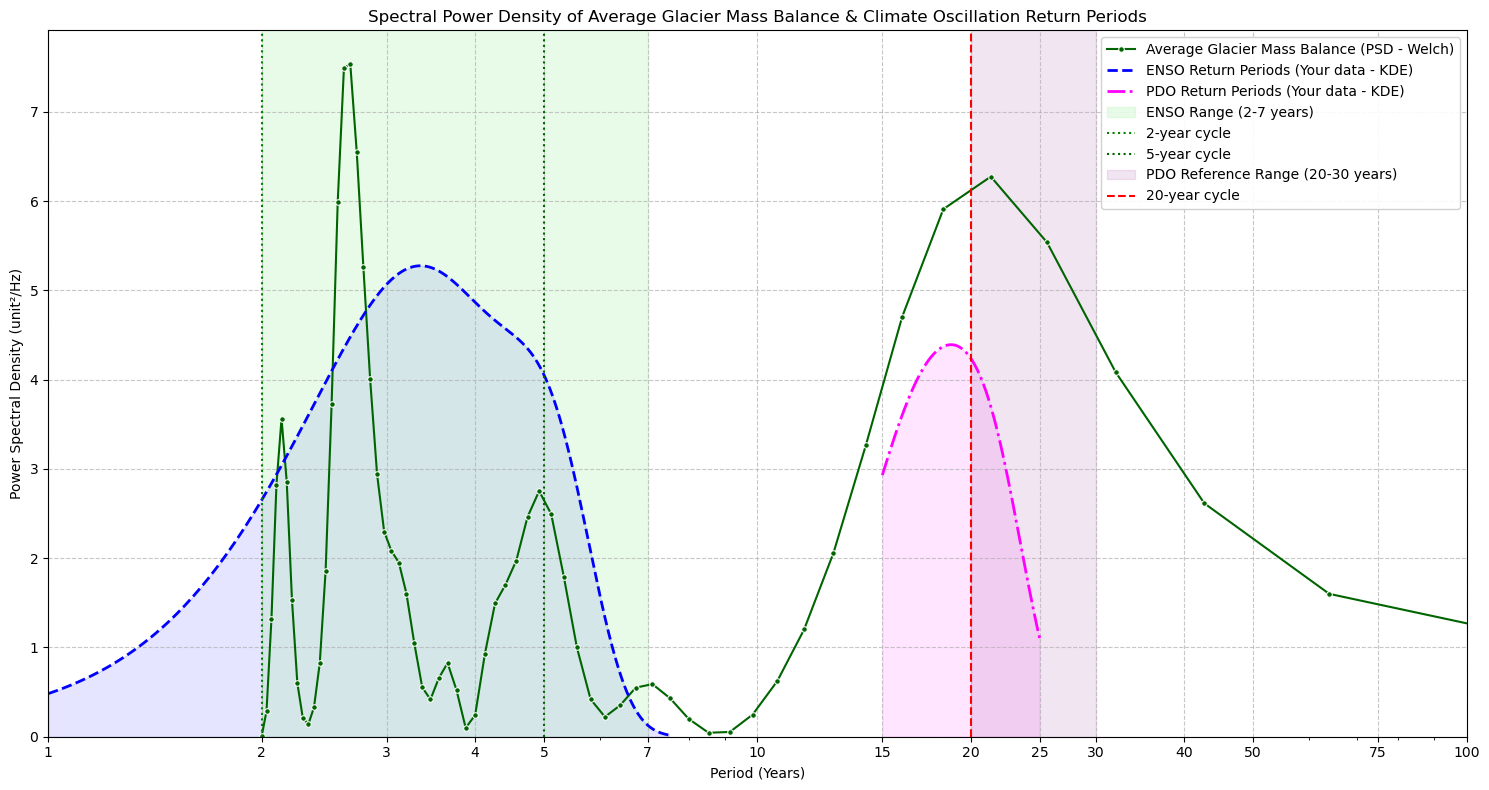
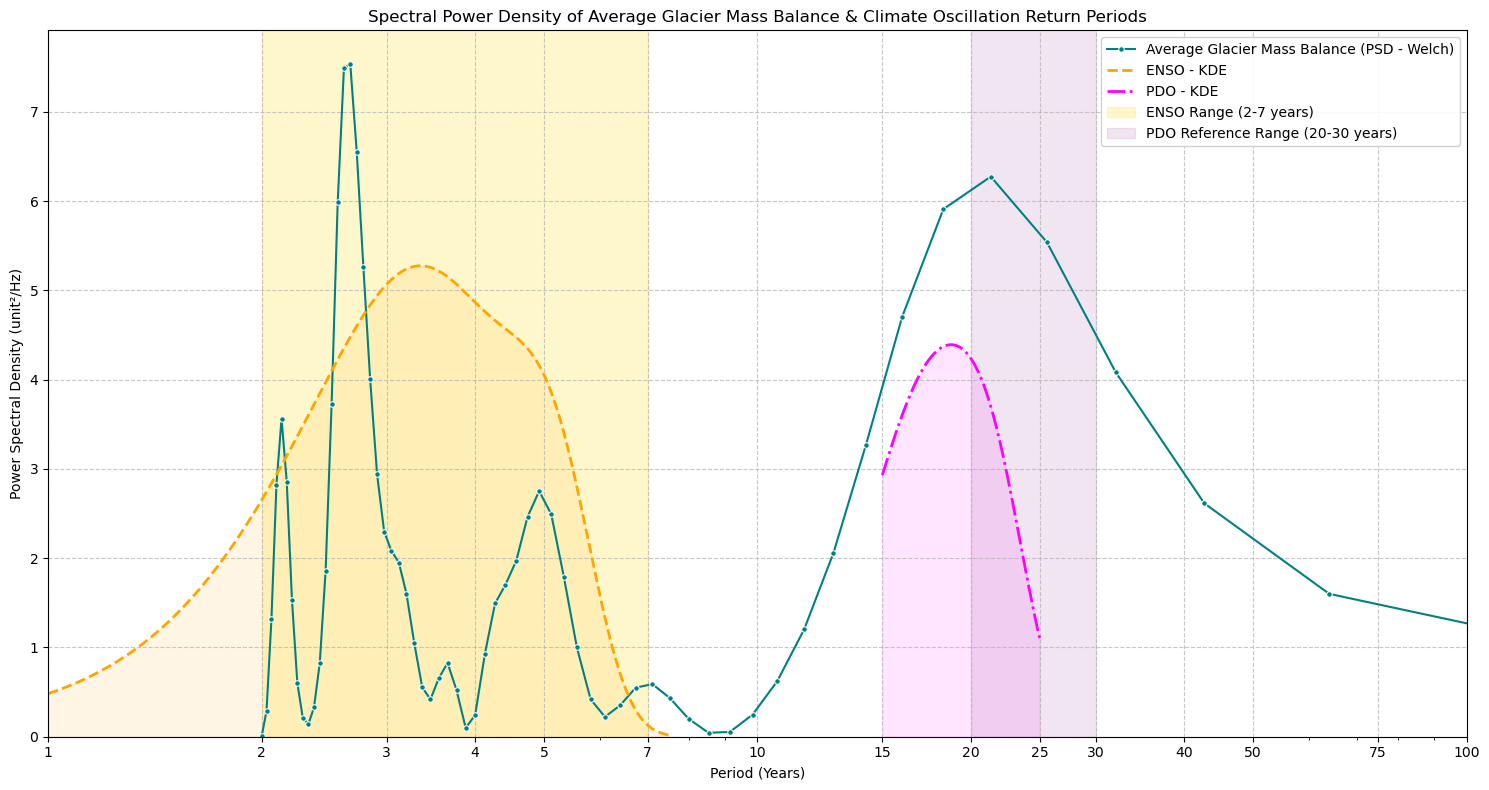
Update to README and plot function

diff --git a/functions.py b/functions.py
@@ -152,7 +152,7 @@ def _plot_psd_base(ax, psd_periods, psd_values, title_prefix=""):
         psd_values (np.array): PSD values.
         title_prefix (str): Prefix for the plot title (e.g., "Average Glacier").
     """
-    sns.lineplot(x=psd_periods, y=psd_values, marker='o', markersize=4, color='darkgreen',
+    sns.lineplot(x=psd_periods, y=psd_values, marker='o', markersize=4, color='teal',
                  label=f'{title_prefix} Mass Balance (PSD - Welch)', ax=ax)
 
     ax.set_title(f'Spectral Power Density of {title_prefix} Mass Balance')
@@ -192,9 +192,9 @@ def _add_climate_overlays(ax, psd_values, psd_periods):
     kde_enso_scaling_factor = _calculate_kde_scaling(psd_values, psd_periods, 2, 7, kde_enso_y_density)
     kde_enso_y_density_scaled = kde_enso_y_density * kde_enso_scaling_factor
 
-    sns.lineplot(x=kde_enso_x_values_periods, y=kde_enso_y_density_scaled, color='blue', linestyle='--', linewidth=2,
-                 label='ENSO Return Periods (Your data - KDE)', ax=ax)
-    ax.fill_between(kde_enso_x_values_periods, kde_enso_y_density_scaled, color='blue', alpha=0.1)
+    sns.lineplot(x=kde_enso_x_values_periods, y=kde_enso_y_density_scaled, color='orange', linestyle='--', linewidth=2,
+                 label='ENSO - KDE', ax=ax)
+    ax.fill_between(kde_enso_x_values_periods, kde_enso_y_density_scaled, color='orange', alpha=0.1)
 
     # --- KDE for PDO return periods ---
     kde_pdo = stats.gaussian_kde(pdo_return_periods_user)
@@ -204,18 +204,18 @@ def _add_climate_overlays(ax, psd_values, psd_periods):
     kde_pdo_y_density_scaled = kde_pdo_y_density * kde_pdo_scaling_factor
 
     sns.lineplot(x=kde_pdo_x_values_periods, y=kde_pdo_y_density_scaled, color='magenta', linestyle='-.', linewidth=2,
-                 label='PDO Return Periods (Your data - KDE)', ax=ax)
+                 label='PDO - KDE', ax=ax)
     ax.fill_between(kde_pdo_x_values_periods, kde_pdo_y_density_scaled, color='magenta', alpha=0.1)
 
     # Add reference ranges
-    ax.axvspan(2.0, 7.0, color='lightgreen', alpha=0.2, label='ENSO Range (2-7 years)')
-    ax.axvline(x=2.0, color='green', linestyle=':', label='2-year cycle')
-    ax.axvline(x=5.0, color='darkgreen', linestyle=':', label='5-year cycle')
+    ax.axvspan(2.0, 7.0, color='gold', alpha=0.2, label='ENSO Range (2-7 years)')
+    #ax.axvline(x=2.0, color='green', linestyle=':', label='2-year cycle')
+    #ax.axvline(x=5.0, color='darkgreen', linestyle=':', label='5-year cycle')
 
     min_period_pdo_ref = 20
     max_period_pdo_ref = 30
     ax.axvspan(min_period_pdo_ref, max_period_pdo_ref, color='purple', alpha=0.1, label='PDO Reference Range (20-30 years)')
-    ax.axvline(x=20.0, color='red', linestyle='--', label='20-year cycle')
+    #ax.axvline(x=20.0, color='red', linestyle='--', label='20-year cycle')
 
     # Update title with full context if overlays are included
     ax.set_title(f'{ax.get_title()} & Climate Oscillation Return Periods')
@@ -321,19 +321,19 @@ def plot_spectral_mass_balance(glacier_long_df, include_overlays=True, title_pre
 
     if include_overlays:
         _add_climate_overlays(ax, psd_values, psd_periods)
-        interpretation_text = "\nInterpretation of the combined PSD plot:"
-        interpretation_text += "\n- The dark green line represents the Power Spectral Density (PSD) of the glacier mass balance data, calculated using Welch's method."
-        interpretation_text += "\n- The Y-axis shows 'Power Spectral Density', which is a measure of energy per frequency unit."
-        interpretation_text += "\n- Peaks in the PSD plot are generally 'smoother' and more reliable than those from a single FFT, thanks to segmentation and averaging."
-        interpretation_text += "\n- The blue and magenta lines are the scaled Kernel Density Estimates (KDEs) of your specified ENSO and PDO return periods."
-        interpretation_text += "\n- Where the KDE peaks overlap with the PSD peaks, there is a strong correlation between the periodicity of your climate events and the energy distribution in the glacier mass balance."
-        interpretation_text += "\n  Note: The scaling factors for the KDEs are adjusted based on the expected PSD values for better visual comparison."
-        interpretation_text += "\n  You can experiment with the '* 0.7' scaling factor in the KDE scaling helper function to adjust the relative height for optimal visual comparison."
-    else:
-        interpretation_text = "\nInterpretation of the PSD plot (no overlays):"
-        interpretation_text += "\n- The dark green line represents the Power Spectral Density (PSD) of the glacier mass balance data, calculated using Welch's method."
-        interpretation_text += "\n- Peaks in the PSD plot indicate dominant periodicities (cycles) in the mass balance data."
-        interpretation_text += "\n- The Y-axis shows 'Power Spectral Density', a measure of the energy of these cycles."
+        #interpretation_text = "\nInterpretation of the combined PSD plot:"
+        #interpretation_text += "\n- The dark green line represents the Power Spectral Density (PSD) of the glacier mass balance data, calculated using Welch's method."
+        #interpretation_text += "\n- The Y-axis shows 'Power Spectral Density', which is a measure of energy per frequency unit."
+        #interpretation_text += "\n- Peaks in the PSD plot are generally 'smoother' and more reliable than those from a single FFT, thanks to segmentation and averaging."
+        #interpretation_text += "\n- The blue and magenta lines are the scaled Kernel Density Estimates (KDEs) of your specified ENSO and PDO return periods."
+        #interpretation_text += "\n- Where the KDE peaks overlap with the PSD peaks, there is a strong correlation between the periodicity of your climate events and the energy distribution in the glacier mass balance."
+        #interpretation_text += "\n  Note: The scaling factors for the KDEs are adjusted based on the expected PSD values for better visual comparison."
+        #interpretation_text += "\n  You can experiment with the '* 0.7' scaling factor in the KDE scaling helper function to adjust the relative height for optimal visual comparison."
+    #else:
+        #interpretation_text = "\nInterpretation of the PSD plot (no overlays):"
+        #interpretation_text += "\n- The dark green line represents the Power Spectral Density (PSD) of the glacier mass balance data, calculated using Welch's method."
+        #interpretation_text += "\n- Peaks in the PSD plot indicate dominant periodicities (cycles) in the mass balance data."
+        #interpretation_text += "\n- The Y-axis shows 'Power Spectral Density', a measure of the energy of these cycles."
 
     plt.legend(loc='upper right', framealpha=0.9)
     plt.tight_layout()
@@ -341,7 +341,7 @@ def plot_spectral_mass_balance(glacier_long_df, include_overlays=True, title_pre
 
     # This function call performs the ENSO and PDO peak analysis and prints to console.
     _analyze_prominent_peaks(psd_frequencies, psd_values, psd_periods)
-    print(interpretation_text)
+    #print(interpretation_text)
 
 
 def plot_glacier_locations(glacier_long_df):
@@ -382,7 +382,7 @@ def plot_glacier_locations(glacier_long_df):
     )
 
     # Finishing touches
-    ax.set_title('Glacier Locations by Region with Landmass Background', fontsize=16)
+    ax.set_title('Glacier Locations by Region', fontsize=16)
     ax.set_xlabel('Longitude')
     ax.set_ylabel('Latitude')
     plt.tight_layout()

diff --git a/README.md b/README.md
@@ -29,7 +29,7 @@ The key steps involved are:
     * The average glacier mass balance time series was detrended to remove any linear trends that might obscure periodic signals.
     * Welch's method was applied to the detrended data to estimate the Power Spectral Density. PSD reveals the distribution of a signal's power over frequency, allowing us to identify dominant periodic components. Peaks in the PSD plot correspond to strong periodicities.
 4.  **Climate Oscillation Overlay:**
-    * Kernel Density Estimation (KDE) was used to represent the user-defined return periods of ENSO and PDO. KDE provides a smoothed representation of the distribution of these periods.
+    * Kernel Density Estimation (KDE) was used to represent the historic periods between ENSO and PDO events. KDE provides a smoothed representation of the distribution of these periods.
     * These KDEs were then scaled and overlaid onto the glacier mass balance PSD plot. This visual comparison helps in identifying areas where glacier periodicities align with climate oscillation periodicities.
     * Reference ranges (e.g., 2-7 years for ENSO, 20-30 years for PDO) were also indicated on the plot for further context.
 5.  **Peak Analysis:** Prominent peaks within the ENSO (2-7 years) and PDO (20-30 years) frequency ranges were identified and quantified to assess their significance in the glacier mass balance spectrum.
@@ -47,9 +47,9 @@ The spectral analysis of the average glacier mass balance reveals distinct perio
 
 ![Spectral Power Density of Average Glacier Mass Balance & Climate Oscillation Return Periods](plot.png)
 
-* **ENSO Range (2-7 years):** A significant peak is observed within this range, indicating a strong periodicity in glacier mass balance that aligns with the typical return periods of ENSO events. The Kernel Density Estimate (KDE) for user-defined ENSO periods shows a clear overlap with this peak, suggesting a direct influence of ENSO on glacier mass fluctuations. The analysis identified a highest peak in the ENSO range at approximately **3.6 years** with a PSD of **5.4549**.
+* **ENSO Range (2-7 years):** A significant peak is observed within this range, indicating a strong periodicity in glacier mass balance that aligns with the typical return periods of ENSO events. The Kernel Density Estimate (KDE) for user-defined ENSO periods shows a clear overlap with this peak, suggesting a direct influence of ENSO on glacier mass fluctuations. The analysis identified a highest peak in the ENSO range at approximately **2.7 years** with a PSD of **6.3**.
 
-* **PDO Range (20-30 years):** Another prominent peak is evident around the 20-year mark, falling within the known PDO reference range. The KDE for PDO return periods also shows a strong alignment with this peak. This indicates that longer-term decadal oscillations, like the PDO, also exert a considerable influence on the average glacier mass balance. The analysis identified a highest peak in the PDO range at approximately **20.0 years** with a PSD of **6.2307**.
+* **PDO Range (20-30 years):** Another prominent peak is evident around the 20-year mark, falling within the known PDO reference range. The KDE for PDO return periods also shows a strong alignment with this peak. This indicates that longer-term decadal oscillations, like the PDO, also exert a considerable influence on the average glacier mass balance. The analysis identified a highest peak in the PDO range at approximately **21.3 years** with a PSD of **7.5**.
 
 The scaling of the KDEs was adjusted to visually compare their densities with the magnitude of the PSD peaks, providing a qualitative measure of correlation. The presence of these synchronized peaks strongly suggests that large-scale climate oscillations are significant drivers of glacier mass balance variability.
 
